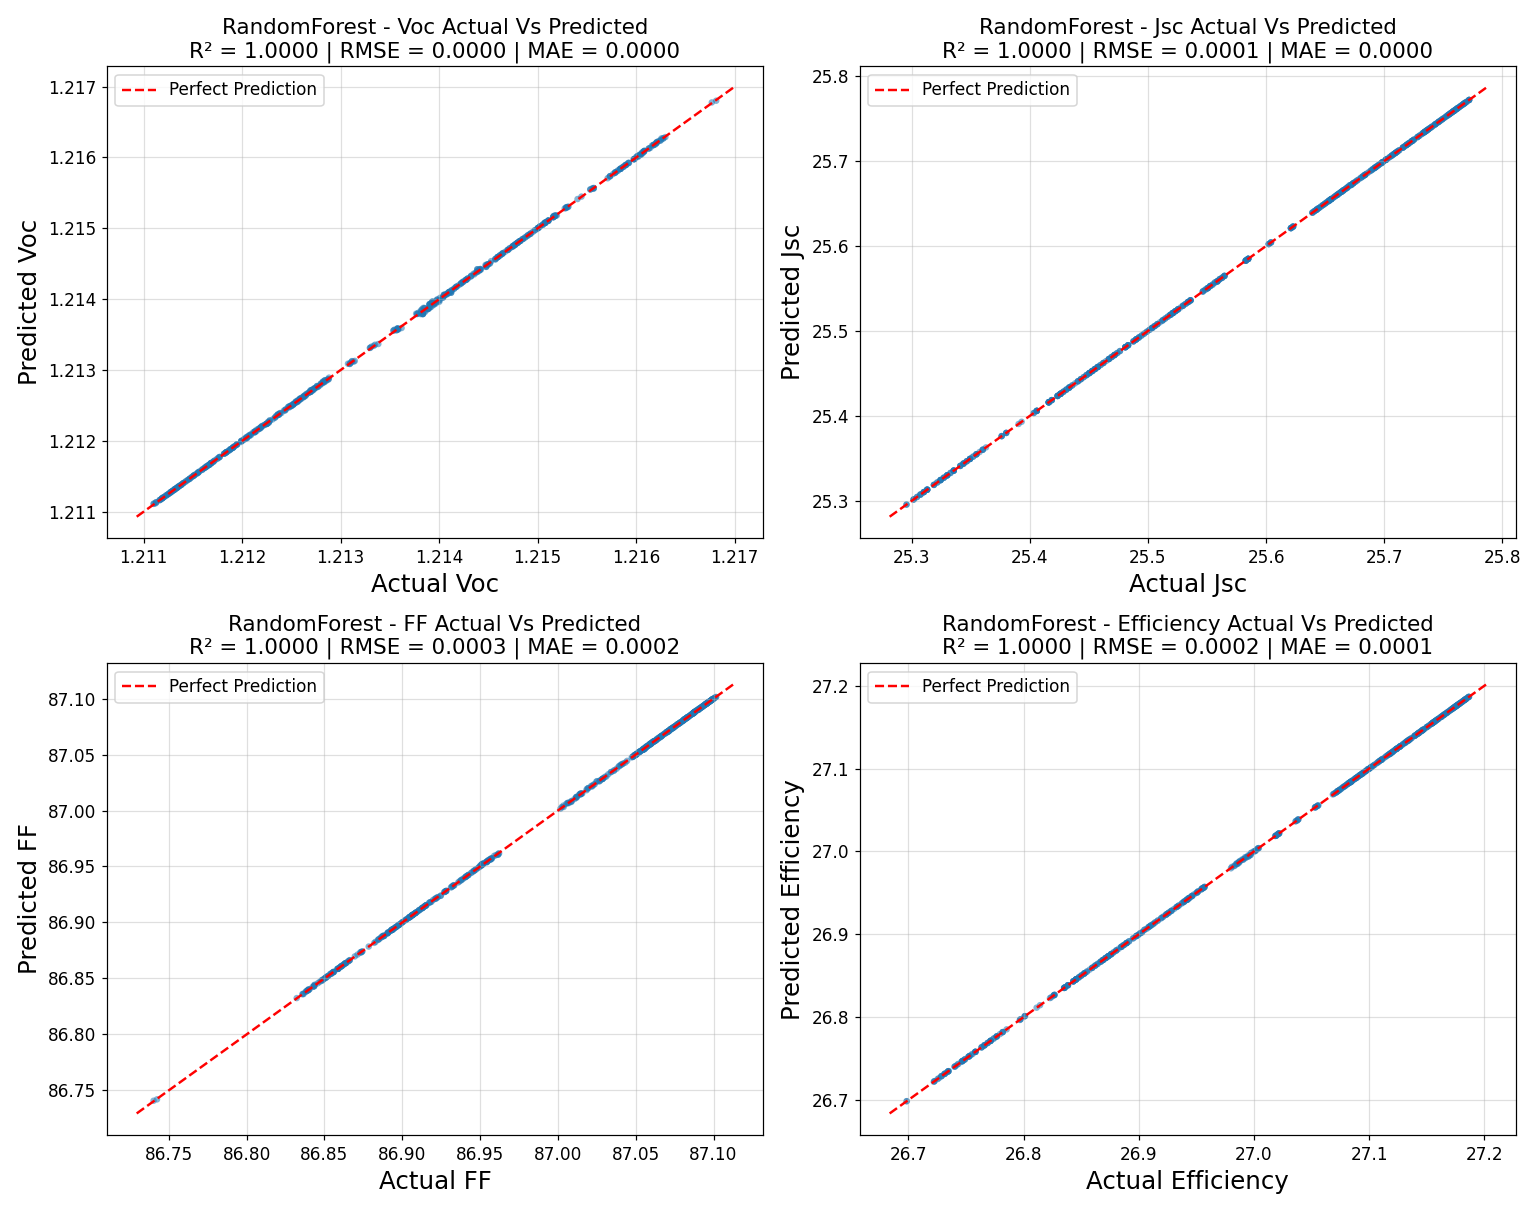
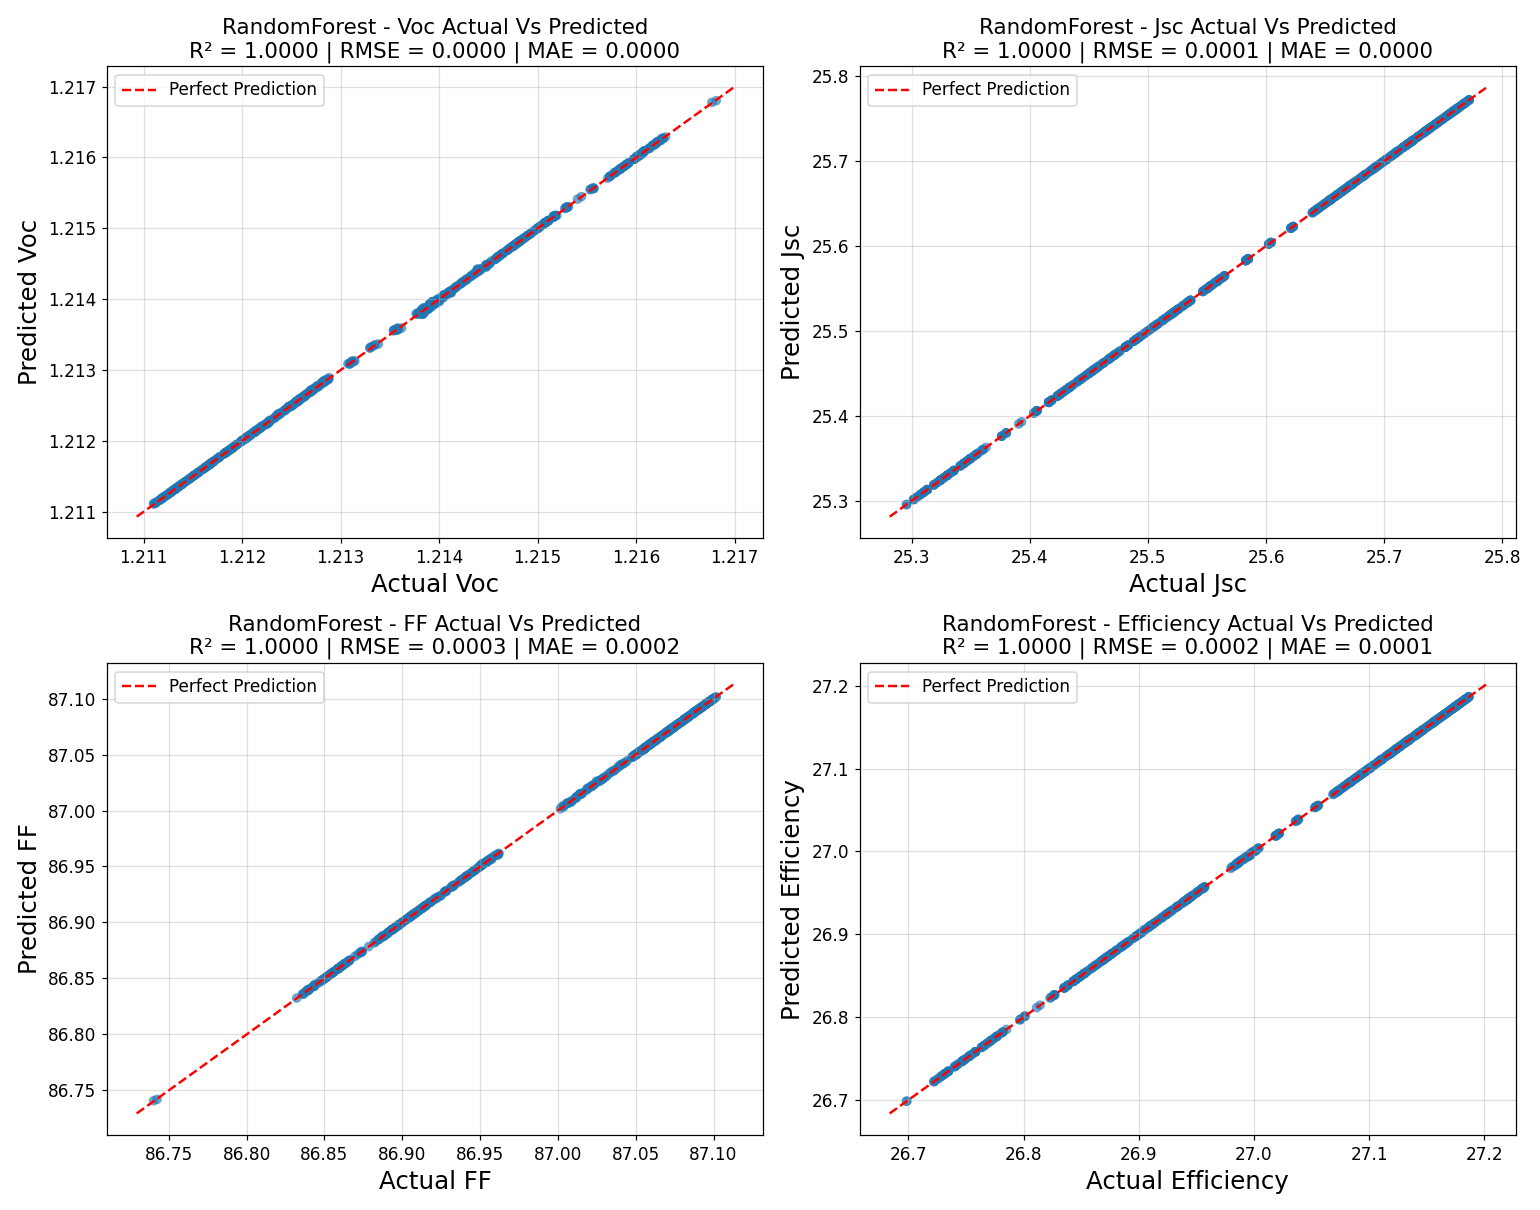
Bigger scatter dots (s=40) in all parity plots

diff --git a/ml_training/training.py b/ml_training/training.py
@@ -150,7 +150,7 @@ def parity_plot(y_true, y_pred, model_name):
         r2 = r2_score(yt, yp)
         rmse = float(np.sqrt(mean_squared_error(yt, yp)))
         mae = mean_absolute_error(yt, yp)
-        ax.scatter(yt, yp, s=18, alpha=0.55, color="#1f77b4", edgecolors="none")
+        ax.scatter(yt, yp, s=40, alpha=0.65, color="#1f77b4", edgecolors="none")
         lo = min(yt.min(), yp.min())
         hi = max(yt.max(), yp.max())
         pad = (hi - lo) * 0.03

diff --git a/nural_network/neural_network_training.py b/nural_network/neural_network_training.py
@@ -169,7 +169,7 @@ def parity_plot(y_true, y_pred):
         r2 = r2_score(yt, yp)
         rmse = float(np.sqrt(mean_squared_error(yt, yp)))
         mae = mean_absolute_error(yt, yp)
-        ax.scatter(yt, yp, s=18, alpha=0.55, color="#1f77b4", edgecolors="none")
+        ax.scatter(yt, yp, s=40, alpha=0.65, color="#1f77b4", edgecolors="none")
         lo, hi = min(yt.min(), yp.min()), max(yt.max(), yp.max())
         pad = (hi - lo) * 0.03
         ax.plot(
